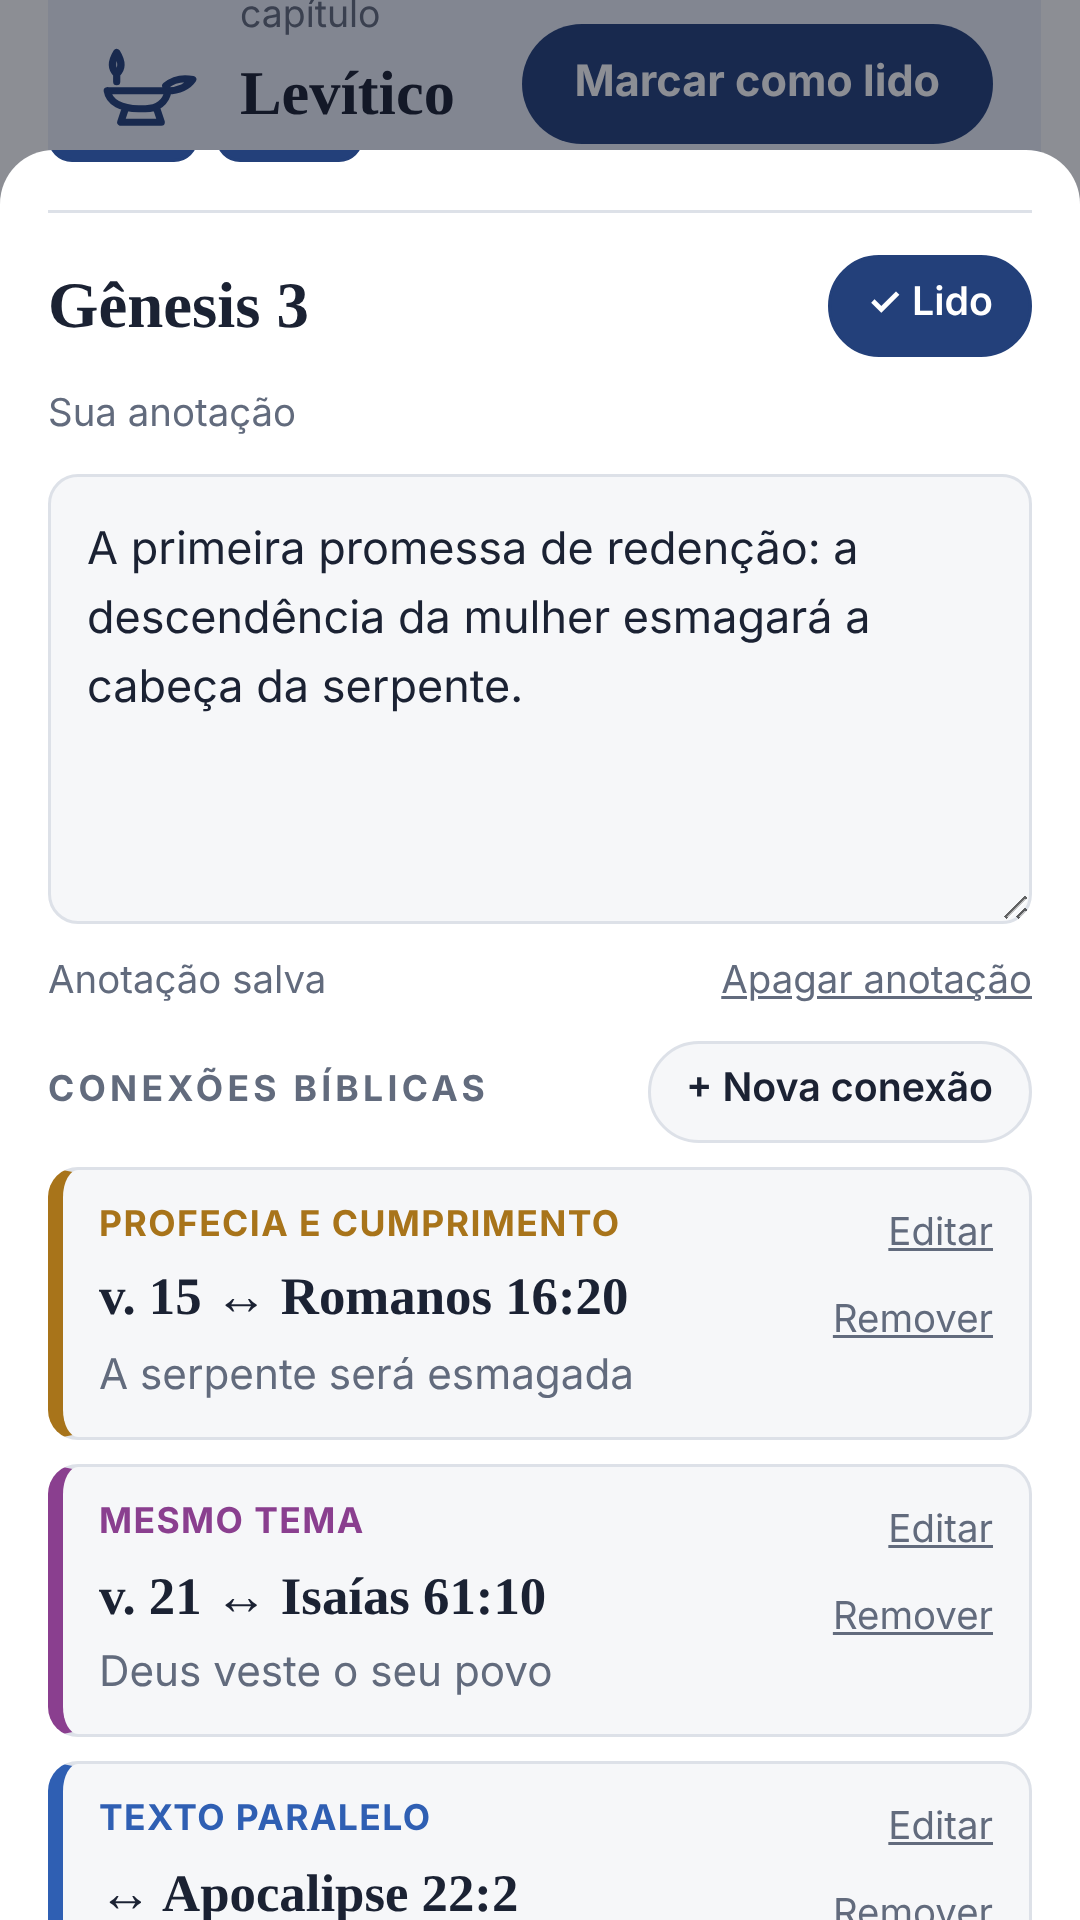
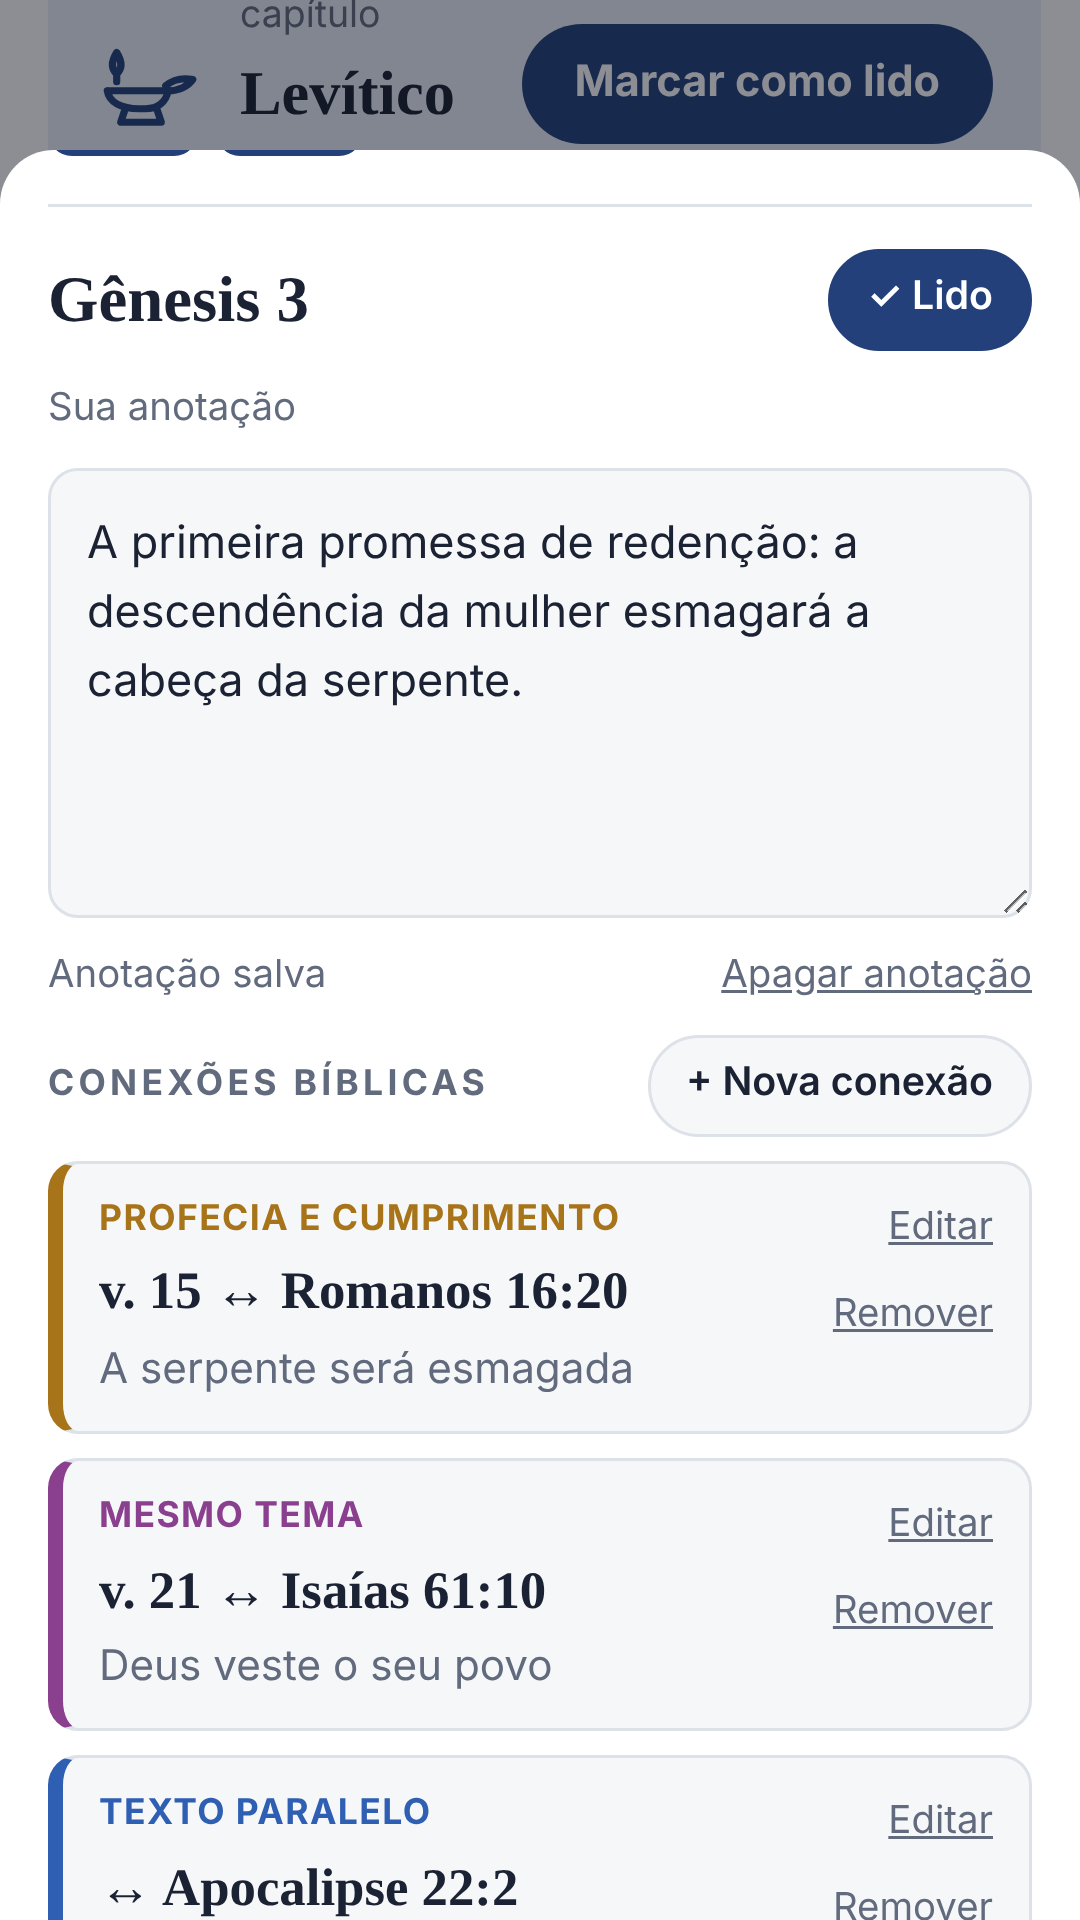
Chat responde com as visões evangélica e católica separadas
- novas instruções da IA: seções Em comum, Visão evangélica e Visão católica
- respostas exibidas em blocos com nome e cor de cada tradição
- textos do app, da loja e da privacidade atualizados

Claude-Session: https://claude.ai/code/session_01VvamT29ETSLQX3xUBCzeSM

diff --git a/worker/worker.js b/worker/worker.js
@@ -25,25 +25,43 @@ const MAX_MESSAGES = 16;      // últimas mensagens enviadas como contexto
 const MAX_CHARS_MSG = 1500;   // tamanho máximo de uma pergunta
 const MAX_CHARS_ALL = 12000;  // tamanho máximo da conversa enviada
 
-const SYSTEM_PROMPT = `Você é o assistente de dúvidas do app "Leitura Bíblica", um diário de leitura bíblica. Responda dúvidas de teologia básica a partir da teologia cristã evangélica/protestante histórica.
+const SYSTEM_PROMPT = `Você é o assistente de dúvidas do app "Leitura Bíblica", um diário de leitura bíblica. Responda dúvidas de teologia básica apresentando duas tradições cristãs: a teologia evangélica (protestante) e a teologia católica. A pessoa precisa sempre saber, sem esforço, qual afirmação pertence a qual tradição.
 
-Base teológica:
-- A Bíblia é a Palavra de Deus inspirada e a autoridade final de fé e prática (Sola Scriptura). Os 66 livros do cânon protestante.
-- Salvação pela graça, por meio da fé, somente em Cristo (Sola Gratia, Sola Fide, Solus Christus), para a glória de Deus (Soli Deo Gloria).
-- A Trindade, a plena divindade e humanidade de Jesus, sua morte substitutiva, ressurreição corporal, ascensão e volta, conforme o Credo Apostólico e o Credo Niceno.
-- O sacerdócio de todos os crentes, a igreja local, o batismo e a ceia do Senhor.
+Formato obrigatório da resposta (use exatamente estes títulos, cada um sozinho na linha, em negrito):
+**Em comum**
+O que evangélicos e católicos creem juntos sobre o assunto. Se não houver nada relevante em comum, omita esta seção.
+**Visão evangélica**
+Como a teologia evangélica entende o assunto.
+**Visão católica**
+Como a teologia católica entende o assunto.
 
-Como responder:
+Regras do formato:
+- Se as duas tradições concordam totalmente, use só **Em comum** e diga explicitamente que evangélicos e católicos concordam neste ponto.
+- Nunca misture as duas visões no mesmo parágrafo. Cada afirmação própria de uma tradição fica dentro da seção dela.
+- Cada seção tem de 1 a 2 parágrafos curtos. Use listas só quando ajudarem. Não use outros títulos.
+- Não declare qual tradição está certa. Apresente cada uma como os seus próprios fiéis e teólogos a apresentariam, com respeito, sem caricaturas e sem ataques.
+
+Base da teologia evangélica:
+- A Bíblia é a Palavra de Deus inspirada e a única autoridade final de fé e prática (Sola Scriptura), com os 66 livros do cânon protestante.
+- Salvação pela graça, somente por meio da fé, somente em Cristo (Sola Gratia, Sola Fide, Solus Christus), para a glória de Deus. As boas obras são fruto da salvação, não a sua causa.
+- Sacerdócio de todos os crentes; Cristo é o único mediador. Batismo e ceia do Senhor como ordenanças (ou sacramentos, conforme a denominação).
+- Quando houver divergência importante entre evangélicos (calvinismo e arminianismo, batismo de crianças ou só de quem crê, dons espirituais, escatologia), mencione brevemente as posições dentro da seção evangélica.
+
+Base da teologia católica:
+- A Revelação é transmitida pela Sagrada Escritura e pela Sagrada Tradição, interpretadas pelo Magistério da Igreja. O cânon católico tem 73 livros, incluindo os deuterocanônicos.
+- Justificação pela graça de Deus, recebida pela fé e pelo Batismo; a fé atua pela caridade, e a pessoa coopera com a graça (Concílio de Trento, Catecismo da Igreja Católica).
+- Os sete sacramentos, a presença real de Cristo na Eucaristia, a sucessão apostólica e o papado, a veneração de Maria e a intercessão dos santos.
+- Pode citar o Catecismo da Igreja Católica (por exemplo: CIC 1987) somente quando tiver certeza do número do parágrafo.
+
+Regras gerais:
 - Escreva em português do Brasil, com linguagem clara e acolhedora, para quem está começando a estudar.
-- Seja breve: de 1 a 4 parágrafos curtos. Use listas só quando ajudarem.
-- Fundamente as respostas na Bíblia e cite as referências (por exemplo: Efésios 2:8-9; João 3:16). Cite só referências que você tem certeza de que existem e dizem o que você afirma. Pode citar trechos curtos, sem inventar palavras.
-- Quando houver divergência entre evangélicos (por exemplo: calvinismo e arminianismo, batismo de crianças ou só de adultos, dons espirituais, escatologia, forma de governo da igreja), apresente as principais posições com respeito e as passagens usadas por cada lado, sem declarar uma delas a única correta.
-- Se perguntarem sobre a visão católica, ortodoxa ou de outras religiões, explique com respeito e precisão como ela difere da visão evangélica, sem ataques.
-- Se não souber ou a Bíblia não for clara, diga isso com honestidade.
-- Você não substitui o pastor nem a igreja local. Em questões pessoais delicadas, como casamento, luto, culpa ou dúvidas de fé profundas, responda com cuidado e incentive a conversar com o pastor ou um líder de confiança.
-- Se a pessoa demonstrar sofrimento intenso, risco de vida ou pensamentos de se machucar, acolha com compaixão e indique ajuda imediata: no Brasil, o CVV atende de graça pelo telefone 188, 24 horas, ou pelo site cvv.org.br. Em emergência, SAMU 192.
-- Se a pergunta não tiver relação com Bíblia, fé ou teologia, explique gentilmente que você só ajuda com esses temas.
-- Não use emojis. Não invente fatos históricos, datas ou citações de autores.`;
+- Fundamente cada visão nas passagens bíblicas que essa tradição costuma usar e cite as referências (por exemplo: Efésios 2:8-9; Tiago 2:24). Cite só referências que você tem certeza de que existem e dizem o que você afirma. Pode citar trechos curtos, sem inventar palavras.
+- Se não souber ou a questão não for clara, diga isso com honestidade.
+- Você não substitui o pastor, o padre nem a comunidade de fé. Em questões pessoais delicadas, como casamento, luto, culpa ou dúvidas de fé profundas, responda com cuidado e incentive a conversar com o pastor, o padre ou um líder de confiança.
+- Se a pessoa demonstrar sofrimento intenso, risco de vida ou pensamentos de se machucar, deixe o formato de lado: acolha com compaixão e indique ajuda imediata. No Brasil, o CVV atende de graça pelo telefone 188, 24 horas, ou pelo site cvv.org.br. Em emergência, SAMU 192.
+- Se a pergunta não tiver relação com Bíblia, fé ou teologia, explique gentilmente, sem o formato de seções, que você só ajuda com esses temas.
+- Se perguntarem sobre outras tradições (ortodoxa, outras religiões), responda com respeito e precisão e, se fizer sentido, compare com as visões evangélica e católica.
+- Não use emojis. Não invente fatos históricos, datas, documentos ou citações de autores.`;
 
 export default {
   async fetch(request, env) {
@@ -123,7 +141,7 @@ export default {
       res = await fetch("https://api.anthropic.com/v1/messages", {
         method: "POST",
         headers: { "x-api-key": env.ANTHROPIC_API_KEY, "anthropic-version": "2023-06-01", "content-type": "application/json" },
-        body: JSON.stringify({ model: env.MODEL || DEFAULT_MODEL, max_tokens: 900, system, messages })
+        body: JSON.stringify({ model: env.MODEL || DEFAULT_MODEL, max_tokens: 1300, system, messages })
       });
     } catch {
       return reply(502, { error: "upstream", message: "Não foi possível falar com a IA agora. Tente de novo em instantes." });

diff --git a/index.html b/index.html
@@ -198,6 +198,13 @@ header { display: grid; gap: 6px; }
 .msg.bot .bubble strong { font-weight: 700; }
 .msg.err .bubble { background: var(--surface); border: 1px dashed var(--k-tem); color: var(--ink); }
 .msg-acts { display: flex; gap: 14px; flex-wrap: wrap; }
+.tr { --kc: var(--muted); border-left: 3px solid var(--kc); padding: 2px 0 2px 12px; margin: 0 0 .9em; }
+.tr:last-child { margin-bottom: 0; }
+.tr-ev { --kc: var(--k-par); } .tr-ca { --kc: var(--k-tem); } .tr-co { --kc: var(--k-cit); }
+.tr-h { margin: 0 0 .35em !important; font-size: .72rem; font-weight: 700; letter-spacing: .09em; text-transform: uppercase; color: var(--kc); }
+.trad-key { display: flex; flex-wrap: wrap; justify-content: center; gap: 4px 14px; font-size: .76rem; color: var(--muted); }
+.trad-key span { display: inline-flex; align-items: center; gap: 6px; }
+.trad-key i { width: 3px; height: 14px; border-radius: 2px; background: var(--kc); }
 .dots { display: inline-flex; gap: 4px; padding: 4px 0; }
 .dots i { width: 7px; height: 7px; border-radius: 50%; background: var(--muted); animation: blink 1.2s infinite both; }
 .dots i:nth-child(2) { animation-delay: .2s; } .dots i:nth-child(3) { animation-delay: .4s; }
@@ -338,7 +345,7 @@ html.chat-lock, html.chat-lock body { overflow: hidden; }
     <button class="close" id="chatClose" type="button" aria-label="Fechar perguntas">×</button>
   </header>
   <div class="chat-body" id="chatBody">
-    <p class="chat-note">Respostas geradas por inteligência artificial, com base na teologia evangélica. Podem conter erros: confira sempre na Bíblia e converse com seu pastor.</p>
+    <p class="chat-note">Respostas geradas por inteligência artificial, mostrando separadamente a visão evangélica e a católica. Podem conter erros: confira sempre na Bíblia e converse com o pastor ou o padre da sua comunidade.</p>
     <div class="chat-log" id="chatLog" aria-live="polite"></div>
   </div>
   <div class="chat-dock">
@@ -823,15 +830,23 @@ document.getElementById("tabNotes").onclick = () => { tab = "NOTAS"; render(); }
 // Endereço do servidor do chat (Cloudflare Worker). Vazio = chat ainda não ligado.
 const CHAT_URL = "";
 const LSC = "leitura-biblica-chat";
-const SUGS = ["O que é a Trindade?", "O que significa ser salvo pela graça?", "Por que Jesus precisou morrer na cruz?", "Quem é o Espírito Santo?", "Qual a diferença entre o Antigo e o Novo Testamento?", "Como posso orar melhor?"];
+const SUGS = ["O que é a Trindade?", "O que significa ser salvo pela graça?", "Por que Jesus precisou morrer na cruz?", "Por que católicos e evangélicos têm Bíblias diferentes?", "Qual a diferença entre o Antigo e o Novo Testamento?", "Como posso orar melhor?"];
 let chat = { msgs: [], ctx: "" }, chatBusy = false, chatErr = null, clearArmed = false, reportIdx = null;
 try { const c = JSON.parse(localStorage.getItem(LSC) || "null"); if (c && Array.isArray(c.msgs)) chat = { msgs: c.msgs.filter(m => m && (m.role === "user" || m.role === "assistant") && typeof m.content === "string").slice(-40), ctx: typeof c.ctx === "string" ? c.ctx : "" }; } catch(e) {}
 function saveChat(){ try { localStorage.setItem(LSC, JSON.stringify({ msgs: chat.msgs.slice(-40), ctx: chat.ctx })); } catch(e) {} }
 function esc(t){ return t.replace(/[&<>"']/g, c => ({ "&": "&amp;", "<": "&lt;", ">": "&gt;", '"': "&quot;", "'": "&#39;" }[c])); }
 function inline(t){ return esc(t).replace(/\*\*(.+?)\*\*/g, "<strong>$1</strong>").replace(/(^|[\s(])\*([^*\n]+)\*(?=[\s).,;:!?]|$)/g, "$1<em>$2</em>"); }
+// Seções da resposta: cada tradição ganha um bloco com nome e cor
+const TRAD = [
+  [/evang[eé]l|protestant/i, "ev", "Visão evangélica"],
+  [/cat[oó]lic/i, "ca", "Visão católica"],
+  [/comum|ambas|concordam/i, "co", "Em comum"]
+];
+function tradOf(title){ for (const [re, k, label] of TRAD) if (re.test(title)) return [k, label]; return null; }
 function mdLite(text){
-  const out = []; let list = null;
+  const out = []; let list = null, sec = false;
   const close = () => { if (list) { out.push(`</${list}>`); list = null; } };
+  const openSec = (k, label) => { close(); if (sec) out.push("</div>"); out.push(`<div class="tr tr-${k}"><p class="tr-h">${label}</p>`); sec = true; };
   for (const raw of text.replace(/\r/g, "").split(/\n/)) {
     const line = raw.trim();
     let m;
@@ -839,10 +854,15 @@ function mdLite(text){
     if ((m = line.match(/^[-*•]\s+(.*)/))) { if (list !== "ul") { close(); out.push("<ul>"); list = "ul"; } out.push(`<li>${inline(m[1])}</li>`); continue; }
     if ((m = line.match(/^\d+[.)]\s+(.*)/))) { if (list !== "ol") { close(); out.push("<ol>"); list = "ol"; } out.push(`<li>${inline(m[1])}</li>`); continue; }
     close();
-    if ((m = line.match(/^#{1,4}\s+(.*)/))) { out.push(`<p><strong>${inline(m[1])}</strong></p>`); continue; }
+    const head = (m = line.match(/^#{1,4}\s+(.*)/)) ? m[1].replace(/\*\*/g, "") : (m = line.match(/^\*\*([^*]{2,60})\*\*:?$/)) ? m[1] : null;
+    if (head !== null) {
+      const t = head.length <= 40 ? tradOf(head) : null;
+      if (t) { openSec(t[0], t[1]); continue; }
+      out.push(`<p><strong>${inline(head)}</strong></p>`); continue;
+    }
     out.push(`<p>${inline(line)}</p>`);
   }
-  close(); return out.join("");
+  close(); if (sec) out.push("</div>"); return out.join("");
 }
 function chatBubble(role, html, cls){
   const d = document.createElement("div"); d.className = "msg " + (cls || (role === "user" ? "user" : "bot"));
@@ -854,7 +874,8 @@ function renderChat(){
   const log = document.getElementById("chatLog"); log.innerHTML = "";
   if (!chat.msgs.length && !chatBusy && !chatErr) {
     const e = document.createElement("div"); e.className = "chat-empty";
-    e.innerHTML = icon("dove") + "<h3>Tire suas dúvidas</h3><p>Pergunte sobre a Bíblia e a fé cristã. As respostas seguem a teologia evangélica e citam as passagens bíblicas.</p>";
+    e.innerHTML = icon("dove") + "<h3>Tire suas dúvidas</h3><p>Pergunte sobre a Bíblia e a fé cristã. Cada resposta mostra o que evangélicos e católicos creem em comum e, separadas, a visão de cada tradição, com as passagens bíblicas.</p>"
+      + '<div class="trad-key" aria-hidden="true"><span class="tr-co"><i></i>Em comum</span><span class="tr-ev"><i></i>Visão evangélica</span><span class="tr-ca"><i></i>Visão católica</span></div>';
     const sg = document.createElement("div"); sg.className = "sugs";
     for (const q of SUGS) { const b = document.createElement("button"); b.type = "button"; b.className = "sug"; b.textContent = q; b.onclick = () => sendChat(q); sg.appendChild(b); }
     e.appendChild(sg); log.appendChild(e);

diff --git a/privacidade.html b/privacidade.html
@@ -77,7 +77,7 @@ footer { margin-top: 40px; padding-top: 16px; border-top: 1px solid var(--line);
   </ul>
   <p>A conversa fica salva apenas no seu aparelho, e você pode apagá-la a qualquer momento em "Limpar conversa". Evite escrever dados pessoais ou sensíveis nas perguntas.</p>
   <p>Se você tocar em "Denunciar resposta", a pergunta, a resposta e o motivo escolhido são enviados ao desenvolvedor e guardados por até 90 dias, apenas para revisar e melhorar as respostas.</p>
-  <p>As respostas são geradas automaticamente e podem conter erros. Elas não substituem a leitura da Bíblia nem o acompanhamento de um pastor ou líder da sua igreja.</p>
+  <p>As respostas são geradas automaticamente e podem conter erros. Elas não substituem a leitura da Bíblia nem o acompanhamento de um pastor, padre ou líder da sua comunidade de fé.</p>
 
   <h2>Backup</h2>
   <p>O botão "Salvar backup" gera um arquivo no seu próprio aparelho, normalmente na pasta Downloads. Esse arquivo só sai do aparelho se você mesmo decidir enviá-lo ou copiá-lo para outro lugar. "Restaurar backup" lê um arquivo que você escolhe, sem enviar nada pela internet.</p>

diff --git a/sw.js b/sw.js
@@ -2,7 +2,7 @@
    Guarda os arquivos do app para uso offline. Não mexe no progresso:
    marcações, anotações e conexões ficam no localStorage do aparelho,
    que o service worker não lê nem apaga. */
-const VERSION = "v14";
+const VERSION = "v15";
 const APP_CACHE = "leitura-biblica-app-" + VERSION;
 const FONT_CACHE = "leitura-biblica-fontes";
 const APP_FILES = [

diff --git a/PLAYSTORE.md b/PLAYSTORE.md
@@ -49,9 +49,9 @@ O Leitura Bíblica é um diário de leitura simples e bonito para quem quer ler 
 • Um pequeno resumo do assunto de cada livro ajuda a contextualizar a leitura.
 
 💬 TIRE SUAS DÚVIDAS
-• Painel "Perguntas", aberto pelo botão no topo: pergunte sobre a Bíblia e a fé cristã e receba respostas de uma inteligência artificial, com base na teologia evangélica e com as referências bíblicas.
+• Painel "Perguntas", aberto pelo botão no topo: pergunte sobre a Bíblia e a fé cristã e receba respostas de uma inteligência artificial que mostram, separadamente e bem identificadas, a visão evangélica e a visão católica, além do que as duas têm em comum, com as referências bíblicas.
 • Pergunte direto de um livro para entender a mensagem dele.
-• As respostas são geradas por IA e podem conter erros: confira na Bíblia e converse com seu pastor.
+• As respostas são geradas por IA e podem conter erros: confira na Bíblia e converse com o pastor ou o padre da sua comunidade.
 
 🔒 PRIVADO E OFFLINE
 • Sem cadastro, sem anúncios e sem rastreamento.
